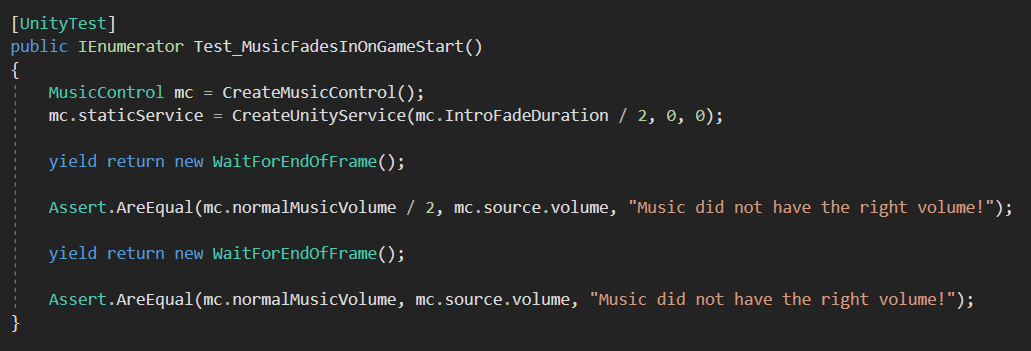
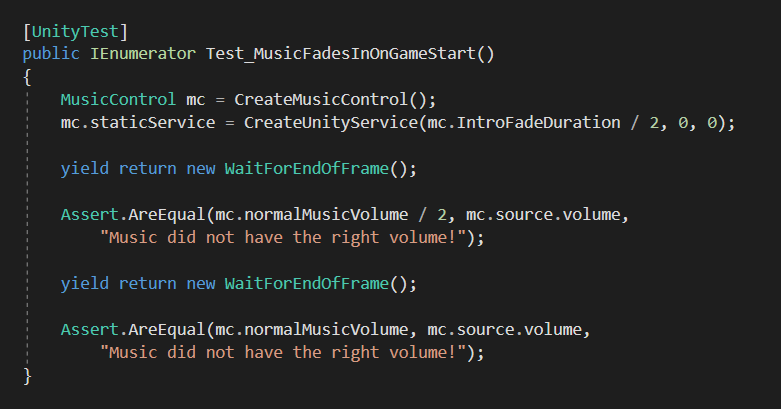
Swapped out some pictures and changed code layout for pictures

diff --git a/Test Driven Game Development/Assets/PlayModeTesting/Test_PMGameController.cs b/Test Driven Game Development/Assets/PlayModeTesting/Test_PMGameController.cs
@@ -59,21 +59,24 @@ public class Test_PMGameController
     {
         Player player = CreatePlayer();
         GameObject gameUI = CreateMockObjectWithName("GameUI");
-        TextMeshProUGUI pointsText = CreateMockObjectWithName("PointsText").AddComponent<TextMeshProUGUI>();
+        TextMeshProUGUI pointsText = new GameObject("PointsText").AddComponent<TextMeshProUGUI>();
         pointsText.transform.SetParent(gameUI.transform);
 
         GameController gameCtr = CreateGameController(player);
         yield return new WaitForEndOfFrame();
 
-        Assert.IsTrue(pointsText.text.Contains(player.stats.GetCurrentPoints().ToString()), "Game UI does not display current points after game start!");
+        Assert.IsTrue(pointsText.text.Contains(player.stats.GetCurrentPoints().ToString()), 
+            "Game UI does not display current points after game start!");
         gameCtr.GetPlayerStats().ModifyPoints(10);
         yield return new WaitForEndOfFrame();
 
-        Assert.IsTrue(pointsText.text.Contains(player.stats.GetCurrentPoints().ToString()), "Game UI does not display current points after adding points!");
+        Assert.IsTrue(pointsText.text.Contains(player.stats.GetCurrentPoints().ToString()), 
+            "Game UI does not display current points after adding points!");
         player.stats.ModifyPoints(-10);
         yield return new WaitForEndOfFrame();
 
-        Assert.IsTrue(pointsText.text.Contains(player.stats.GetCurrentPoints().ToString()), "Game UI does not display current points after losing points!");
+        Assert.IsTrue(pointsText.text.Contains(player.stats.GetCurrentPoints().ToString()), 
+            "Game UI does not display current points after losing points!");
     }
 
     [UnityTest]
@@ -335,7 +338,7 @@ public class Test_PMGameController
 
         Assert.AreNotEqual(playerPos, player.transform.position, "Player didn't get teleported at all!");
         Assert.AreEqual(enemy.transform.position.x, player.transform.position.x, "Player got moved wrong on x axis when battle started!");
-        Assert.AreEqual(enemy.transform.position.y, player.transform.position.y, "Player got moved wrong on y axis when battle started!");
+        //Assert.AreEqual(enemy.transform.position.y, player.transform.position.y, "Player got moved wrong on y axis when battle started!");
         Assert.AreNotEqual(enemy.transform.position.z, player.transform.position.z, "Player didn't get moved on z axis when battle started!");
     }
 

diff --git a/Test Driven Game Development/Assets/PlayModeTesting/Test_PMPlayer.cs b/Test Driven Game Development/Assets/PlayModeTesting/Test_PMPlayer.cs
@@ -40,12 +40,17 @@ public class Test_PMPlayer
         Player player = CreatePlayer();
         player.gameObject.AddComponent<CharacterController>();
         player.stats.playerSpeed = 1.0f;
+
         IUnityStaticService staticService = CreateUnityService(1, 1, 0);
         player.staticService = staticService;
 
+        float expectedPos = player.transform.position.z + player.stats.playerSpeed;
+        float tolerance = 0.01f;
+
         yield return new WaitForFixedUpdate();
-        
-        Assert.AreEqual(1, player.transform.position.z, 0.1f, "Player didn't move on z axis after horizontal input!");
+
+        Assert.AreEqual(expectedPos, player.transform.position.z, tolerance, 
+            "Player didn't move on z axis after horizontal input!");
     }
 
     [UnityTest]
@@ -54,12 +59,16 @@ public class Test_PMPlayer
         Player player = CreatePlayer();
         player.gameObject.AddComponent<CharacterController>();
         player.stats.playerSpeed = 1.0f;
+
         IUnityStaticService staticService = CreateUnityService(1, 0, 1);
         player.staticService = staticService;
 
+        float expectedPos = player.transform.position.x - player.stats.playerSpeed;
+        float tolerance = 0.01f;
+
         yield return new WaitForFixedUpdate();
         
-        Assert.AreEqual(-1, player.transform.position.x, 0.1f, "Player didn't move on x axis after vertical input!");
+        Assert.AreEqual(expectedPos, player.transform.position.x, tolerance, "Player didn't move on x axis after vertical input!");
     }
 
     [UnityTest]
@@ -264,7 +273,8 @@ public class Test_PMPlayer
         gameCtr.StartBattle(enemy);
         yield return new WaitForEndOfFrame();
 
-        Assert.IsTrue(player.stats.CanAct(), "Player wasn't able to attack after waiting their turn time!");
+        Assert.IsTrue(player.stats.CanAct(), 
+            "Player wasn't able to attack after waiting their turn time!");
     }
 
     [UnityTest]
@@ -671,7 +681,8 @@ public class Test_PMPlayer
         return g;
     }
 
-    IUnityStaticService CreateUnityService(float deltaTimeReturn, float horizontalReturn, float verticalReturn)
+    IUnityStaticService CreateUnityService(float deltaTimeReturn, 
+        float horizontalReturn, float verticalReturn)
     {
         IUnityStaticService s = Substitute.For<IUnityStaticService>();
         s.GetDeltaTime().Returns(deltaTimeReturn);

diff --git a/Test Driven Game Development/Assets/PlayModeTesting/Test_PMMusicControl.cs b/Test Driven Game Development/Assets/PlayModeTesting/Test_PMMusicControl.cs
@@ -27,8 +27,10 @@ public class Test_PMMusicControl
 
         yield return new WaitForEndOfFrame();
 
-        Assert.IsTrue(mc.source.isPlaying, "Music did not play when game started!");
-        Assert.AreEqual(mc.normalBgMusic, mc.source.clip, "Game did not start with normal background music!");
+        Assert.IsTrue(mc.source.isPlaying, 
+            "Music did not play when game started!");
+        Assert.AreEqual(mc.normalBgMusic, mc.source.clip, 
+            "Game did not start with normal background music!");
         Assert.IsTrue(mc.source.loop, "Music wasn't looping!");
     }
 
@@ -40,11 +42,13 @@ public class Test_PMMusicControl
 
         yield return new WaitForEndOfFrame();
 
-        Assert.AreEqual(mc.normalMusicVolume / 2, mc.source.volume, "Music did not have the right volume!");
+        Assert.AreEqual(mc.normalMusicVolume / 2, mc.source.volume, 
+            "Music did not have the right volume!");
 
         yield return new WaitForEndOfFrame();
 
-        Assert.AreEqual(mc.normalMusicVolume, mc.source.volume, "Music did not have the right volume!");
+        Assert.AreEqual(mc.normalMusicVolume, mc.source.volume, 
+            "Music did not have the right volume!");
     }
 
     [UnityTest]

diff --git a/Test Driven Game Development/Assets/Testing/Test_FighterStats.cs b/Test Driven Game Development/Assets/Testing/Test_FighterStats.cs
@@ -355,7 +355,8 @@ public class Test_FighterStats
         stats1.AttackOpponent(stats2, false, true);
         int damagedHealth = stats2.GetCurrentHealth();
 
-        Assert.Less(damagedHealth, fullHealth, "Fighter wasn't able to attack another fighter and damage them!");
+        Assert.Less(damagedHealth, fullHealth, 
+            "Fighter wasn't able to attack another fighter and damage them!");
     }
 
     [Test]
